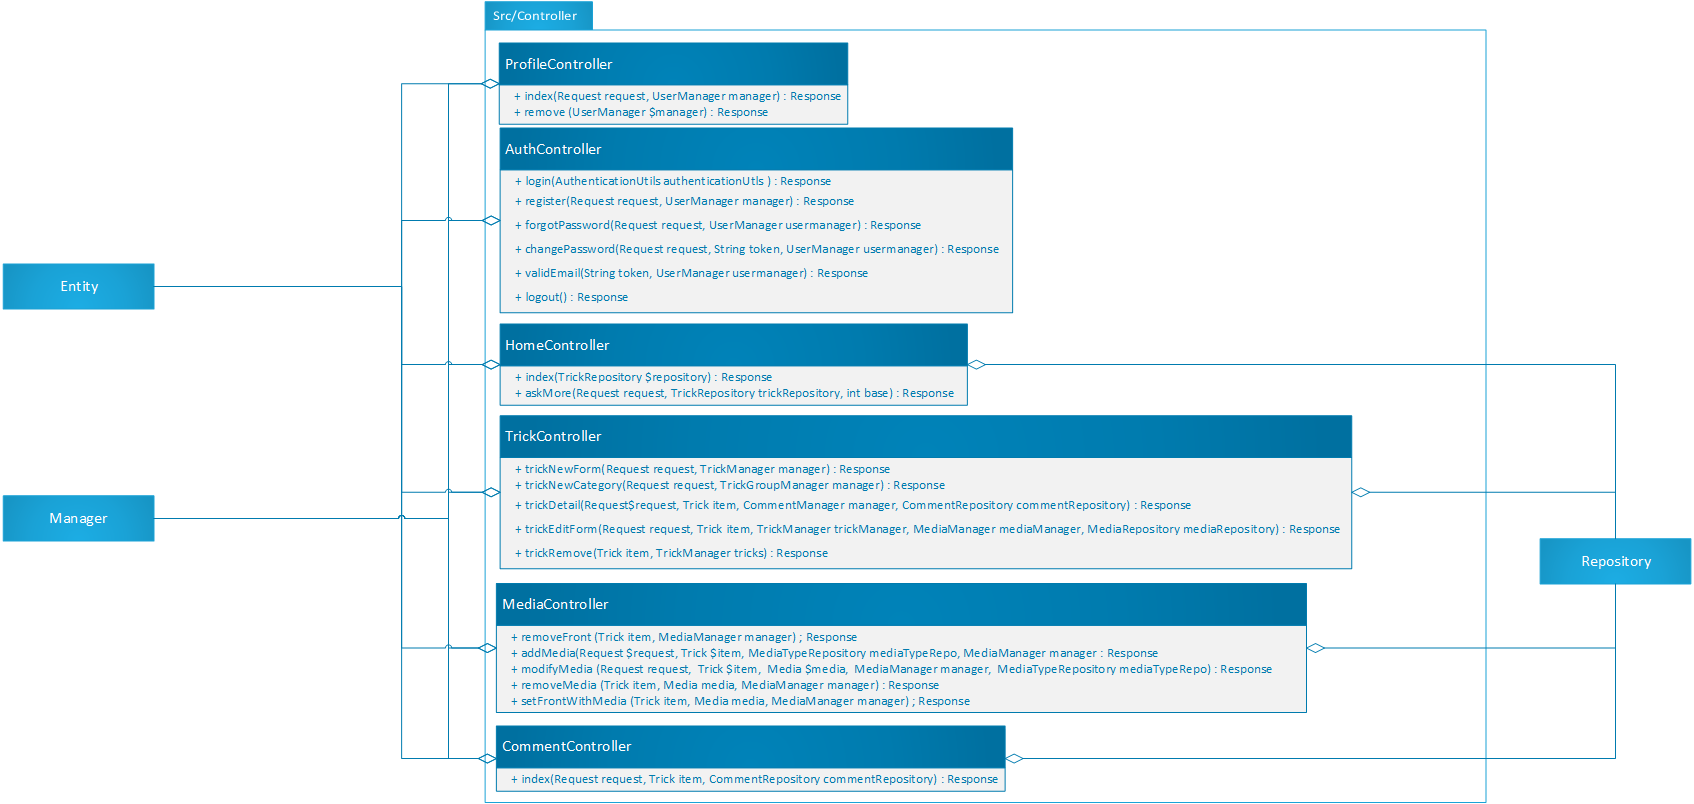
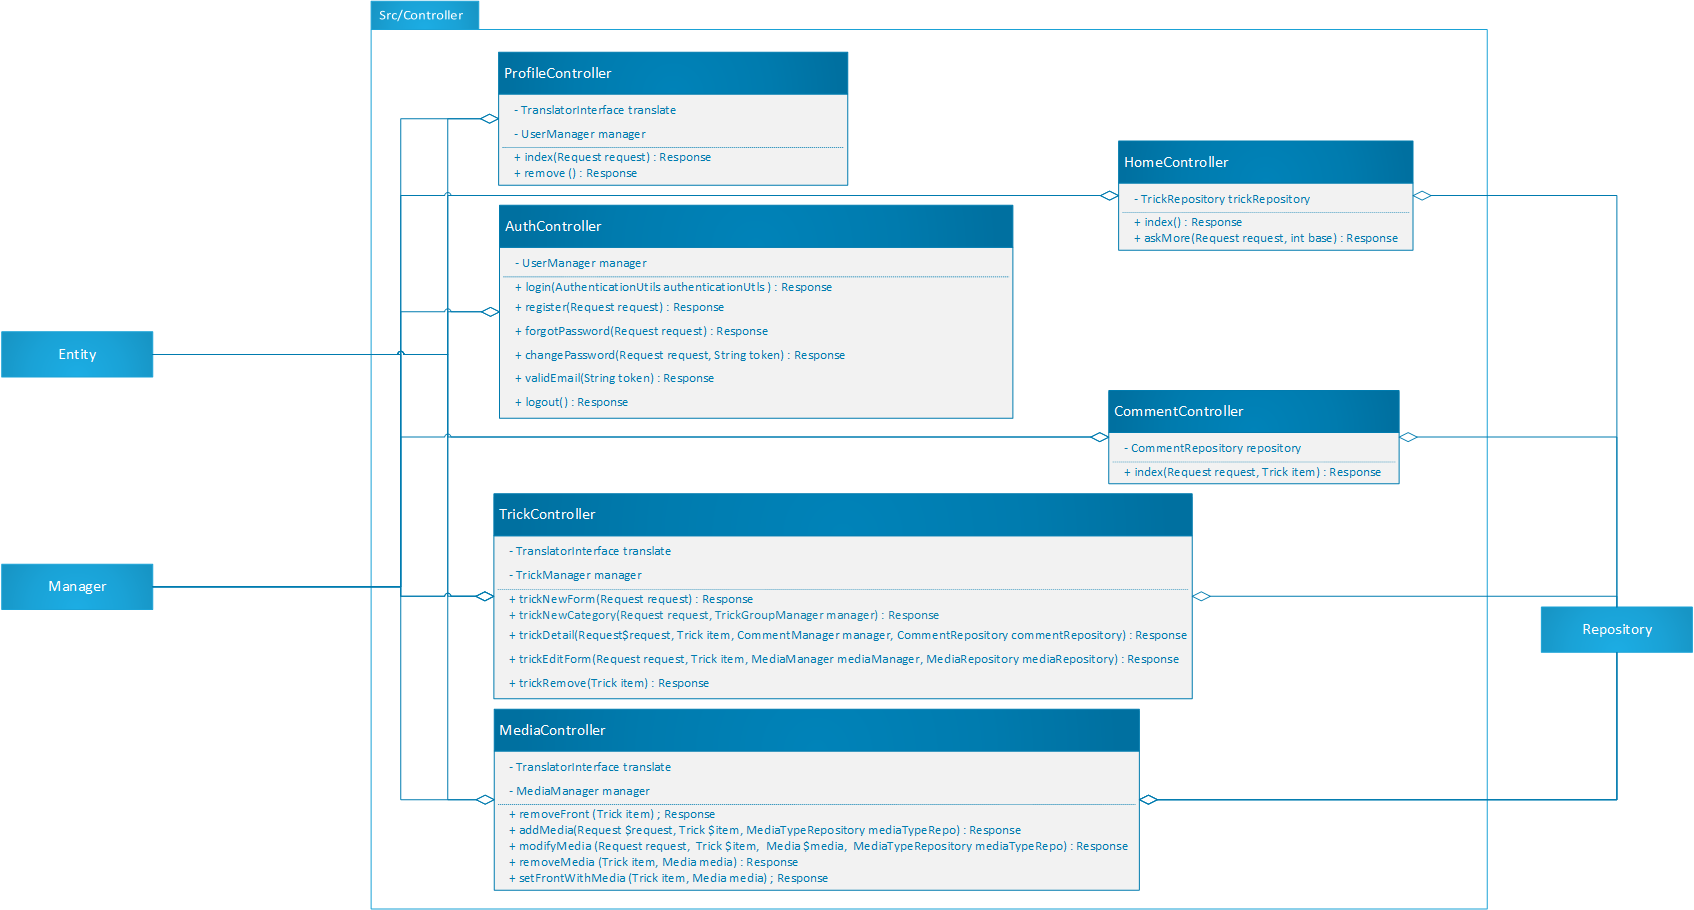
generalize paramater / update diagram + add paramaters on Controllers for reduce = update controller class diagram

diff --git a/src/Controller/AuthController.php b/src/Controller/AuthController.php
@@ -22,6 +22,16 @@ class AuthController extends AbstractController
 {
 
     /**
+     * @var UserManager $manager
+     */
+    private UserManager $manager;
+
+    public function __construct(UserManager $manager)
+    {
+        $this->manager = $manager;
+    }
+
+    /**
      * Login a user (prebuild function)
      * @param AuthenticationUtils $authenticationUtils authentification utility class
      * @return Response Render / Json response
@@ -44,11 +54,10 @@ class AuthController extends AbstractController
     /**
      * Display registration template / register a user
      * @param Request $request request data
-     * @param UserManager $userManager manager for user function
      * @return Response Render / Json response
      * @Route("/register", name="register")
      */
-    public function register(Request $request, UserManager $userManager) : Response
+    public function register(Request $request) : Response
     {
         $user = new User();
 
@@ -57,7 +66,7 @@ class AuthController extends AbstractController
         $form->handleRequest($request);
 
         if ($form->isSubmitted() && $form->isValid()) {
-            $userManager->register($user);
+            $this->manager->register($user);
             return $this->redirectToRoute('app_login');
         }
         return $this->render('registration/index.html.twig', [
@@ -68,17 +77,16 @@ class AuthController extends AbstractController
     /**
      * Display forgot password template / ask to send mail for reset password
      * @param Request $request request data
-     * @param UserManager $userManager manager for user function
      * @return Response Render / Json response
      * @Route("/forgot_password", methods={"GET", "POST"}, name="forgot_password")
      */
-    public function forgotPassword(Request $request, UserManager $userManager) : Response
+    public function forgotPassword(Request $request) : Response
     {
         $form = $this->createForm(ForgotPasswordType::class);
         $form->handleRequest($request);
         if ($form->isSubmitted() && $form->isValid()) {
             $email = ($form->getData())['email'];
-            $userManager->forgotPassword($email);
+            $this->manager->forgotPassword($email);
             return $this->redirectToRoute('app_login');
         }
         return $this->render('security/forgotPassword.html.twig', [
@@ -90,11 +98,10 @@ class AuthController extends AbstractController
      * Display change password template / change password
      * @param Request $request request data
      * @param String $token token
-     * @param UserManager $userManager manager for user function
      * @return Response Render / Json response
      * @Route("/reset_password/{token}", name="change_password")
      */
-    public function changePassword(Request $request, string $token, UserManager $userManager) : Response
+    public function changePassword(Request $request, string $token) : Response
     {
         $user = new User();
         $form = $this->createForm(
@@ -107,7 +114,7 @@ class AuthController extends AbstractController
         );
         $form->handleRequest($request);
         if ($form->isSubmitted() && $form->isValid()) {
-            $userManager->changePassword($user, $token);
+            $this->manager->changePassword($user, $token);
             return $this->redirectToRoute('app_login');
         }
         return $this->render('security/changePassword.html.twig', [
@@ -118,13 +125,12 @@ class AuthController extends AbstractController
     /**
      * Display registration template / register a user
      * @param String $token token
-     * @param UserManager $manager manager for user function
      * @return Response Render / Json response
      * @Route("/verify_email/{token}", name="check_email")
      */
-    public function validEmail(string $token, UserManager $manager) : Response
+    public function validEmail(string $token) : Response
     {
-        $manager->validEmail($token);
+        $this->manager->validEmail($token);
 
         return $this->redirectToRoute('app_login');
     }

diff --git a/src/Controller/HomeController.php b/src/Controller/HomeController.php
@@ -16,36 +16,43 @@ use Symfony\Component\Routing\Annotation\Route;
 class HomeController extends AbstractController
 {
     /**
+     * @var TrickRepository $repository
+     */
+    private TrickRepository $repository;
+
+    public function __construct(TrickRepository $repository)
+    {
+        $this->repository = $repository;
+    }
+    /**
      * @var int limit of displayed tricks
      */
     const LIMIT = 15;
 
     /**
      * Display home page with 15 first trick
-     * @param TrickRepository $trickRepository repository for trick
      * @return Response Render / Json response
      * @Route("/", name="home")
      */
-    public function index(TrickRepository $trickRepository): Response
+    public function index(): Response
     {
-        $tricks = $trickRepository->findBy([], [], self::LIMIT, 0);
+        $tricks = $this->repository->findBy([], [], self::LIMIT, 0);
         return $this->render('index.html.twig', [
             'tricks' => $tricks,
             'offset' => 1,
-            'nbToken' => $trickRepository->count([])-self::LIMIT
+            'nbToken' => $this->repository->count([])-self::LIMIT
         ]);
     }
     /**
      * Send more trick on trick card template
      * @param Request $request request data
-     * @param TrickRepository $trickRepository repository for trick
      * @param int $base offset
      * @return Response Render / Json response
      * @Route("ask/{base}", name="show_more")
      */
-    public function askMore(Request $request, TrickRepository $trickRepository, int $base) : Response
+    public function askMore(Request $request, int $base) : Response
     {
-        $tricks = $trickRepository->findBy([], [], self::LIMIT, $base*self::LIMIT);
+        $tricks = $this->repository->findBy([], [], self::LIMIT, $base*self::LIMIT);
         $tricksDisplay = array();
         foreach ($tricks as $trick) {
             $tricksDisplay[] = $this->renderView('tricks/card.html.twig', ['trick' => $trick]);

diff --git a/src/Controller/CommentController.php b/src/Controller/CommentController.php
@@ -17,6 +17,15 @@ use Symfony\Component\Routing\Annotation\Route;
 class CommentController extends AbstractController
 {
     /**
+     * @var CommentRepository $repository
+     */
+    private CommentRepository $repository;
+
+    public function __construct(CommentRepository $repository)
+    {
+        $this->repository = $repository;
+    }
+    /**
      * @var int limit of displayed comment
      */
     const LIMIT = 4 ;
@@ -24,14 +33,13 @@ class CommentController extends AbstractController
      * send more comment on comment card template
      * @param Request $request request data
      * @param Trick $item concerned trick
-     * @param CommentRepository $commentRepository repository for comment
      * @return Response Render / Json response
      * @Route("tricks/{id}/comment", name= "comment")
      */
-    public function index(Request $request, Trick $item, CommentRepository $commentRepository): Response
+    public function index(Request $request, Trick $item): Response
     {
         $offset = $request->query->getInt('offset');
-        $comments = $commentRepository->findBy(['Tricks' => $item->getId()], ['id' => 'DESC'], self::LIMIT, $offset*self::LIMIT);
+        $comments = $this->repository->findBy(['Tricks' => $item->getId()], ['id' => 'DESC'], self::LIMIT, $offset*self::LIMIT);
         $commentDisplay = [];
         foreach ($comments as $comment) {
             $commentDisplay[] = $this->renderView('comment/card.html.twig', ['comment' => $comment]);

diff --git a/src/Controller/MediaController.php b/src/Controller/MediaController.php
@@ -22,8 +22,14 @@ use Symfony\Contracts\Translation\TranslatorInterface;
 class MediaController extends AbstractController
 {
 
-
+    /**
+     * @var TranslatorInterface $translate
+     */
     private TranslatorInterface $translate;
+
+    /**
+     * @var MediaManager $manager
+     */
     private MediaManager $manager;
 
     public function __construct(
